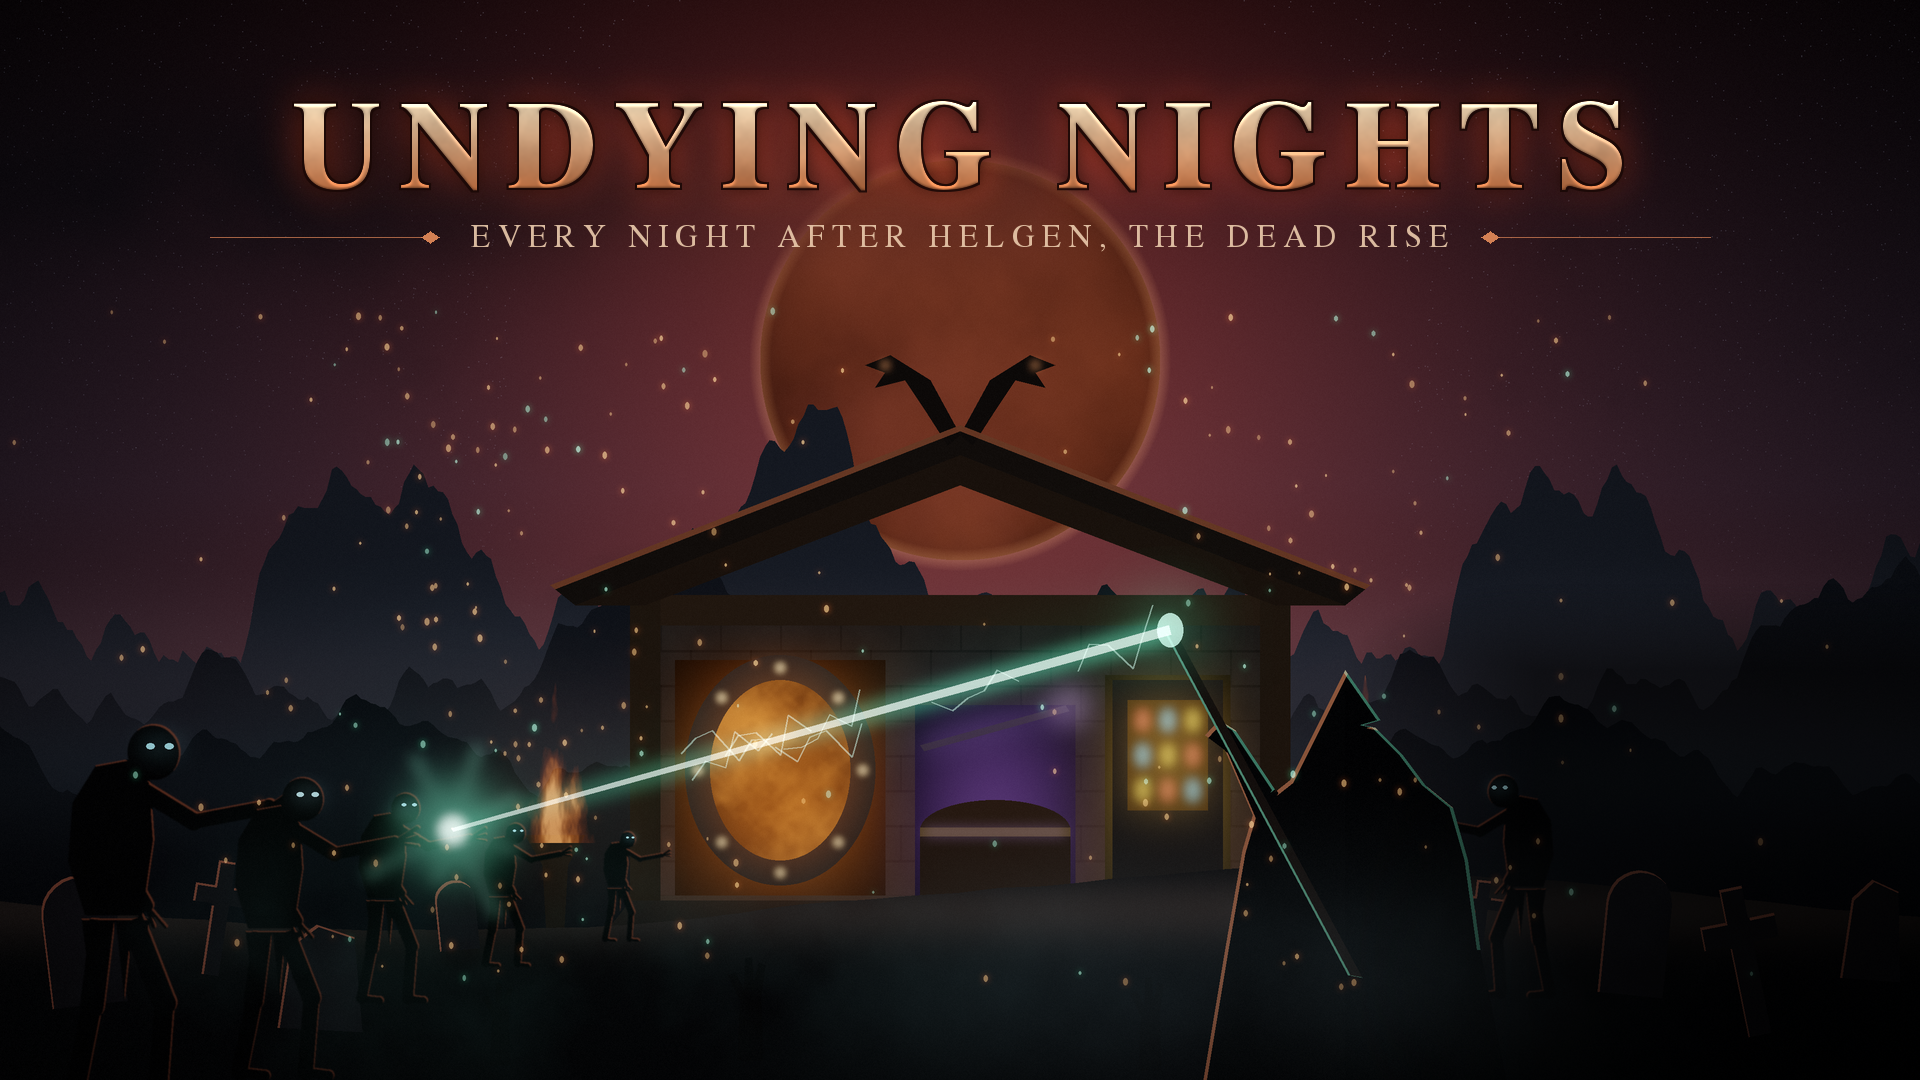
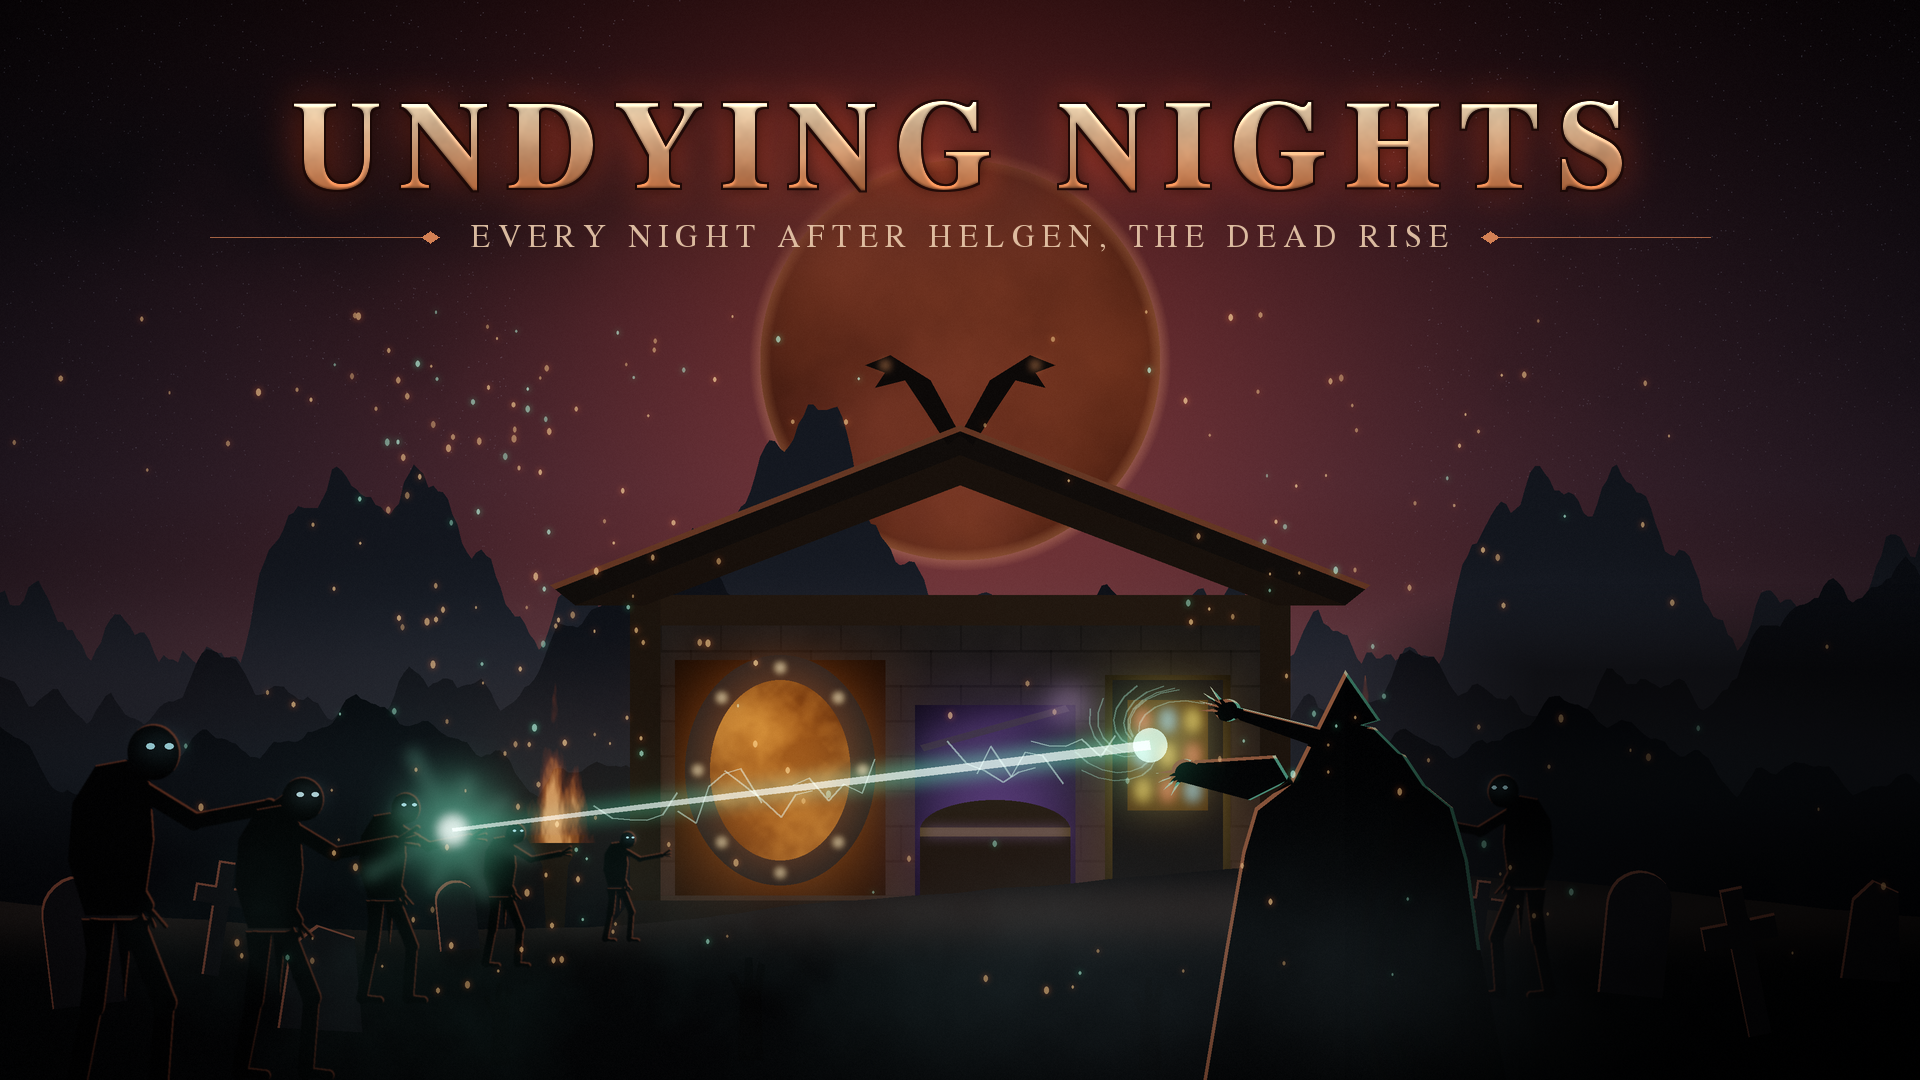
Cover and main-menu art: the caster casts from bare hands (no staff); tagline says hand magic and the Thu'um
Claude-Session: https://claude.ai/code/session_01XygewZTgx3ZFWTg4ffda8j

Changed region(s): [[0.25, 0.55, 0.6875, 0.7944], [0.25, 0.825, 0.2812, 0.8556]]

diff --git a/tools/cover.py b/tools/cover.py
@@ -1,6 +1,6 @@
 """Undying Nights cover art (original, procedural): a blood moon over the Shrine of the Dirge, its three alcoves
 lit (Atronach Reforge, Sheogorath's Coffer, Brew Machine), the Risen climbing out of a barrow-yard, an Iron Reaper,
-and a caster whose staff hurls an arcane lance.   python cover.py out.png [width]"""
+and a caster who hurls an arcane lance from bare hands.   python cover.py out.png [width]"""
 import math, sys
 import numpy as np
 from PIL import Image, ImageDraw, ImageFilter, ImageFont
@@ -242,23 +242,37 @@ for hx, hy, hs in [(1500, 2120, 1.0), (2300, 2140, 0.9), (2600, 2090, 0.7), (100
            (hx + 4 * hs, hy - 205 * hs), (hx + 6 * hs, hy - 150 * hs), (hx + 18 * hs, hy - 195 * hs), (hx + 30 * hs, hy - 190 * hs), (hx + 22 * hs, hy - 130 * hs), (hx + 25 * hs, hy)]
     over(mask(poly(pts)), C('#060607'))
 
-# ---------------------------------------------------------------- the caster: back to us, staff raised, an arcane lance
+# ---------------------------------------------------------------- the caster: back to us, both hands thrust out, an arcane lance
 HX, HY = 2700, 2200
 cloak = [(HX - 300, HY), (HX - 250, HY - 300), (HX - 215, HY - 500), (HX - 190, HY - 585), (HX - 120, HY - 640), (HX - 80, HY - 720), (HX - 20, HY - 760), (HX + 50, HY - 745),
          (HX + 105, HY - 690), (HX + 150, HY - 630), (HX + 205, HY - 585), (HX + 235, HY - 480), (HX + 260, HY - 300), (HX + 320, HY)]
 hm = mask(poly(cloak))
-hm = np.maximum(hm, mask(poly([(HX - 150, HY - 620), (HX - 230, HY - 740), (HX - 262, HY - 760), (HX - 290, HY - 730), (HX - 250, HY - 700), (HX - 190, HY - 560)])))   # raised arm, gripping the staff
+# both arms reach forward and up toward the horde, sleeves hanging; open hands with the spell between them
+OX, OY = 2330, 1500          # the spell held between the palms
+hm = np.maximum(hm, mask(poly([(HX - 120, HY - 640), (HX - 200, HY - 600), (OX + 20, OY + 60), (OX + 60, OY + 20), (HX - 150, HY - 690)])))      # near arm (left)
+hm = np.maximum(hm, mask(poly([(HX + 110, HY - 690), (HX + 40, HY - 720), (OX + 110, OY - 95), (OX + 150, OY - 60), (HX + 150, HY - 630)])))    # far arm, over the shoulder
+for hx, hy, ang0 in ((OX + 40, OY + 40, 2.55), (OX + 125, OY - 80, 3.6)):   # hands: palm and splayed fingers
+    hm = np.maximum(hm, mask(ell(hx, hy, 26, 22)))
+    for f in range(4):
+        a_ = ang0 + (f - 1.5) * 0.32
+        hm = np.maximum(hm, mask(poly([(hx + math.cos(a_ + 1.57) * 6, hy + math.sin(a_ + 1.57) * 6), (hx + math.cos(a_) * 58, hy + math.sin(a_) * 58),
+                                       (hx + math.cos(a_ - 1.57) * 6, hy + math.sin(a_ - 1.57) * 6)])))
 hm = np.maximum(hm, mask(poly([(HX - 80, HY - 720), (HX - 10, HY - 860), (HX + 60, HY - 760)])))   # the hood's point
 over(hm, C('#030304'))
 rim = np.clip(hm - np.roll(np.roll(hm, int(6 * k), axis=0), int(6 * k), axis=1), 0, 1)
 add(rim, '#ff7a4a', 0.9)
+near = np.exp(-(((xx / k - OX) ** 2 + (yy / k - OY) ** 2) / 420.0 ** 2))
 rim2 = np.clip(hm - np.roll(hm, -int(7 * k), axis=1), 0, 1) * (yy / k < HY - 300)
-add(rim2, '#60ffc0', 0.7)   # the staff's light on the far side
-TX, TY = 2340, 1260   # staff head
-staff = mask(poly([(HX - 4, HY - 250), (HX + 24, HY - 245), (TX + 16, TY + 14), (TX - 10, TY + 6)]))
-over(staff, C('#140e0c')); add(np.clip(staff - np.roll(staff, int(5 * k), axis=1), 0, 1), '#60ffc0', 0.8)
-gem = mask(ell(TX, TY, 26, 34))
-add(gem, '#9effd8', 2.0); glow(gem, '#40ffb0', 60, 1.6); glow(gem, '#20c080', 220, 0.6)
+add(rim2 * (0.4 + near), '#60ffc0', 0.8)   # the spell's light on arms and hood
+TX, TY = OX - 30, OY - 10
+gem = mask(ell(TX, TY, 34, 34))
+add(gem, '#9effd8', 2.0); glow(gem, '#40ffb0', 60, 1.8); glow(gem, '#20c080', 240, 0.7)
+for i in range(9):   # wisps curling off the hands
+    a0 = rng.uniform(0, 2 * math.pi); pts = []
+    for s in np.linspace(0, 1, 7):
+        r_ = 40 + 110 * s; a1 = a0 + 1.4 * s
+        pts.append((TX + math.cos(a1) * r_, TY + math.sin(a1) * r_ * 0.8))
+    add(mask(lambda d, pts=pts: d.line([P(*q) for q in pts], fill=255, width=max(1, int(3 * k)))), '#90ffd8', 0.5)
 # the lance: a bright core to the risen at the left, with a burst where it strikes
 EX, EY = 905, 1660
 L = math.hypot(EX - TX, EY - TY)
@@ -348,7 +362,7 @@ for sgn in (-1, 1):   # knotwork-ish rules either side of the line
     d.line([(x0, ty + 175 * kk), (x1, ty + 175 * kk)], fill=(200, 120, 80, 200), width=max(1, int(3 * kk)))
     d.polygon([(x0, ty + 175 * kk - 12 * kk), (x0 + sgn * 18 * kk, ty + 175 * kk), (x0, ty + 175 * kk + 12 * kk), (x0 - sgn * 18 * kk, ty + 175 * kk)], fill=(230, 140, 90, 230))
 fB = ImageFont.truetype(FR, int(50 * kk))
-if not MENU: draw_text(lay, 'ROUND-BASED UNDEAD SURVIVAL  •  STAFFS & ELEMENTAL BOWS  •  THE UNDYING DIRGE', fB, h - 90 * kk, 10 * kk, (210, 190, 170, 200))
+if not MENU: draw_text(lay, 'ROUND-BASED UNDEAD SURVIVAL  •  HAND MAGIC & THE THU\'UM  •  THE UNDYING DIRGE', fB, h - 90 * kk, 10 * kk, (210, 190, 170, 200))
 out = Image.alpha_composite(out.convert('RGBA'), lay).convert('RGB')
 if MENU:  # Skyrim's own buttons (Continue, New, Load...) are drawn over the bottom-right: a darker, quieter corner for them
     ww, hh = out.size
